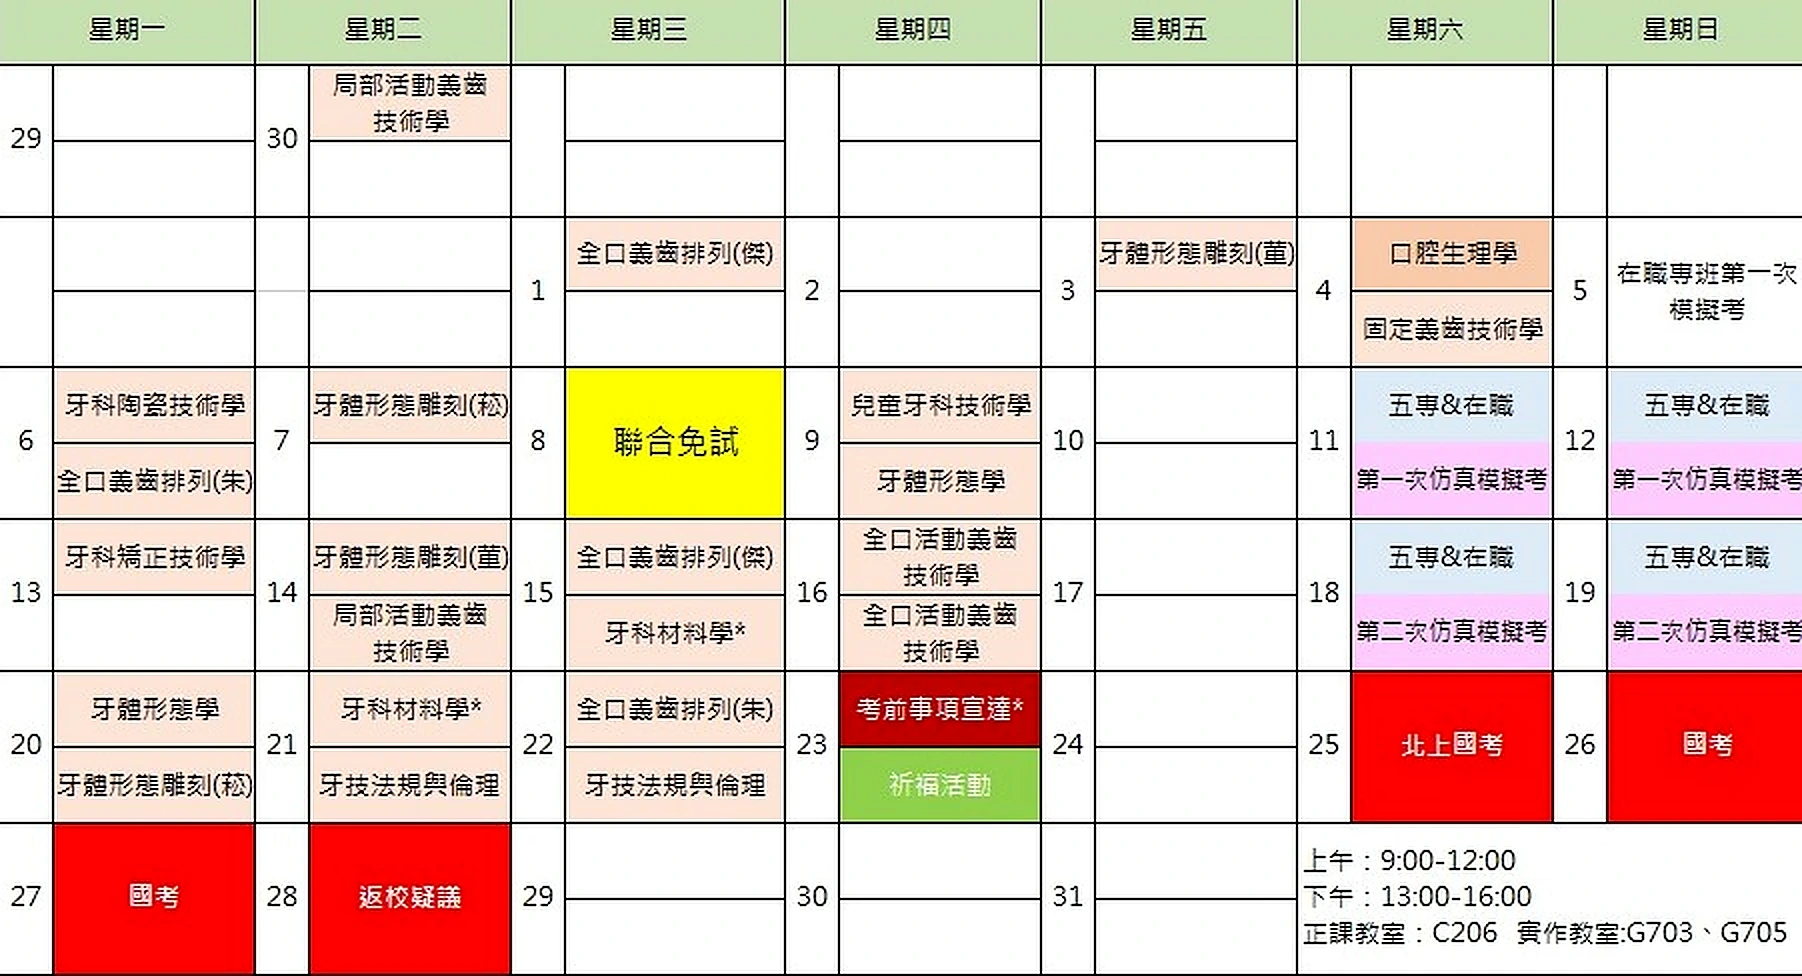
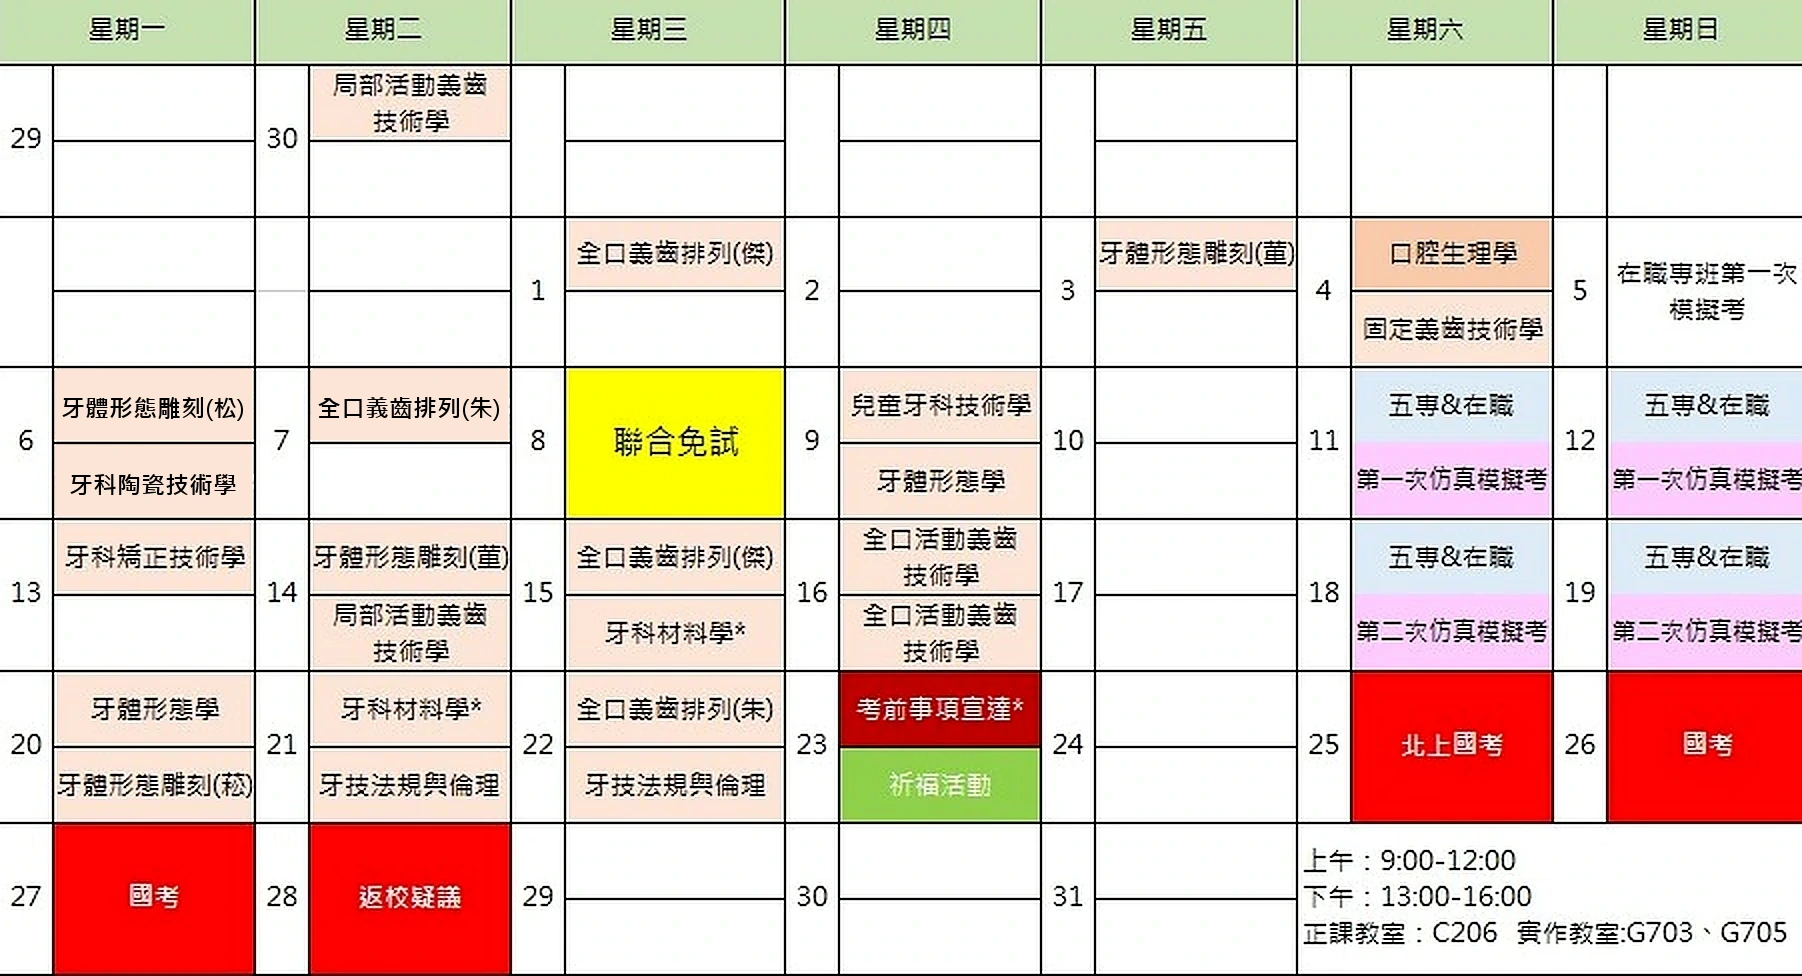
Update schedule image and announcement badges

Changed region(s): [[0.0311, 0.4611, 0.1554, 0.5225], [0.0311, 0.3996, 0.2797, 0.4303]]

diff --git a/index.html b/index.html
@@ -501,7 +501,7 @@
         `;
         return;
       }
-      const announcements = state.announcements.length ? state.announcements : (isConfigured() ? [] : DEFAULT_ANNOUNCEMENTS);
+      const announcements = sortAnnouncements(state.announcements.length ? state.announcements : (isConfigured() ? [] : DEFAULT_ANNOUNCEMENTS));
       board.innerHTML = `
         <div class="flex flex-col gap-3 sm:flex-row sm:items-start sm:justify-between">
           <div>
@@ -509,14 +509,41 @@
             <p class="mt-1 text-sm text-slate-500">&#35506;&#31243;&#33287;&#31995;&#32113;&#20351;&#29992;&#25552;&#37266;</p>
           </div>
         </div>
-        <ul class="mt-4 space-y-2">
+        <ul class="mt-4 max-h-56 space-y-2 overflow-y-auto pr-1">
           ${announcements.length ? announcements.map((announcement) => `
-            <li class="whitespace-pre-line rounded-lg border border-amber-100 bg-amber-50 px-3 py-2 text-sm leading-6 text-amber-950">
+            <li class="relative whitespace-pre-line rounded-lg border border-amber-100 bg-amber-50 px-3 py-2 pr-14 text-sm leading-6 text-amber-950">
+              ${isNewAnnouncement(announcement) ? '<span class="absolute right-2 top-2 rounded bg-rose-600 px-2 py-0.5 text-[10px] font-bold tracking-wide text-white">NEW</span>' : ''}
               ${escapeHtml(announcement.body || '')}
             </li>
           `).join('') : '<li class="rounded-lg border border-amber-100 bg-amber-50 px-3 py-2 text-sm leading-6 text-amber-950">&#30446;&#21069;&#27794;&#26377;&#20844;&#21578;&#12290;</li>'}
         </ul>
       `;
+    }
+
+    function sortAnnouncements(announcements) {
+      return [...(announcements || [])].sort((a, b) => {
+        const aTime = announcementTimestamp(a);
+        const bTime = announcementTimestamp(b);
+        if (aTime && bTime) return bTime - aTime;
+        if (aTime) return -1;
+        if (bTime) return 1;
+        return Number(a.sort_order || 0) - Number(b.sort_order || 0);
+      });
+    }
+
+    function isNewAnnouncement(announcement) {
+      const createdAt = announcementTimestamp(announcement);
+      if (!createdAt) return false;
+      const age = Date.now() - createdAt;
+      return age >= 0 && age <= 3 * 24 * 60 * 60 * 1000;
+    }
+
+    function announcementTimestamp(announcement) {
+      const value = String((announcement && announcement.created_at) || '').trim();
+      if (!value) return 0;
+      const normalized = value.includes('T') ? value : `${value.replace(' ', 'T')}+08:00`;
+      const time = new Date(normalized).getTime();
+      return Number.isFinite(time) ? time : 0;
     }
 
     function isMobileMode() {
@@ -1496,8 +1523,8 @@
 
     function renderAnnouncementPanel() {
       const announcements = state.adminData && Array.isArray(state.adminData.announcements) && state.adminData.announcements.length
-        ? state.adminData.announcements
-        : state.announcements;
+        ? sortAnnouncements(state.adminData.announcements)
+        : sortAnnouncements(state.announcements);
       $('announcementPanel').innerHTML = `
         <div class="flex flex-col gap-4">
           <div>
@@ -1523,7 +1550,7 @@
         const fields = $('announcementFields');
         const count = fields.querySelectorAll('.announcement-row').length;
         if (count >= 10) return showToast('最多 10 則公告。', 'warning');
-        fields.insertAdjacentHTML('beforeend', announcementFieldHtml({ body: '' }, count));
+        fields.insertAdjacentHTML('afterbegin', announcementFieldHtml({ body: '', created_at: '' }, 0));
         bindAnnouncementRemoveButtons();
       });
       $('announcementForm').addEventListener('submit', saveAnnouncements);
@@ -1537,6 +1564,7 @@
             <p class="text-xs font-bold text-slate-500">公告 ${index + 1}</p>
             <button type="button" class="remove-announcement rounded bg-white px-2 py-1 text-xs font-bold text-rose-600 hover:bg-rose-50">刪除</button>
           </div>
+          <input class="announcement-created-at" type="hidden" value="${escapeAttr(announcement.created_at || '')}">
           <textarea class="announcement-body mt-2 min-h-[72px] w-full rounded-lg border border-slate-300 px-3 py-2 text-sm" placeholder="公告內容">${escapeHtml(announcement.body || '')}</textarea>
         </div>
       `;
@@ -1557,6 +1585,7 @@
       const announcements = Array.from(document.querySelectorAll('.announcement-row')).map((row, index) => ({
         announcement_id: String(index + 1),
         body: row.querySelector('.announcement-body').value.trim(),
+        created_at: row.querySelector('.announcement-created-at').value.trim(),
         visible: true,
         sort_order: index + 1,
       })).filter((announcement) => announcement.body);
